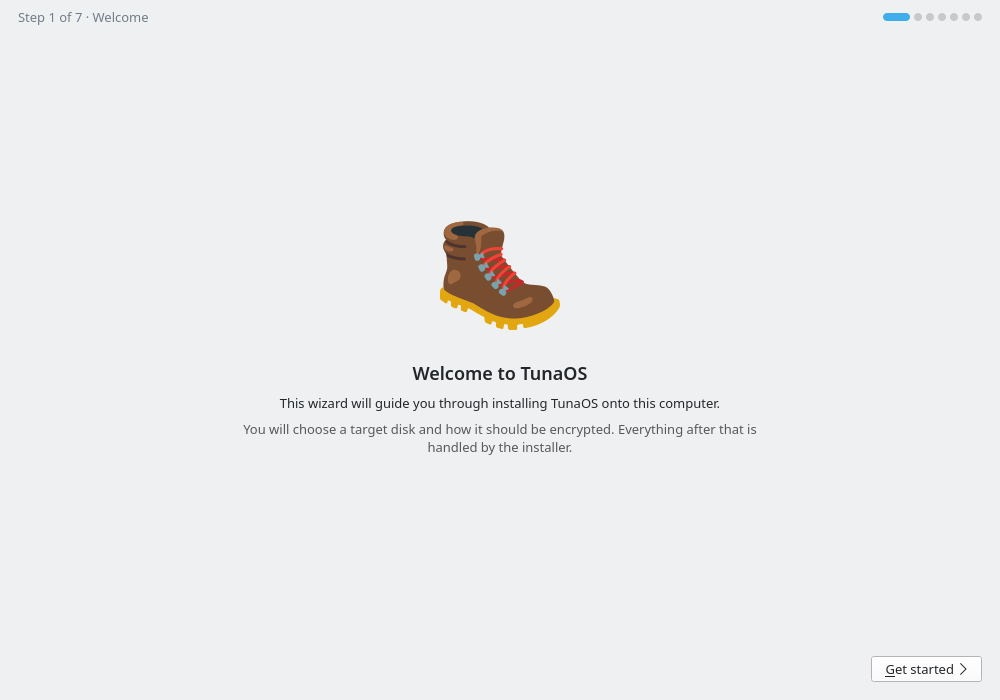
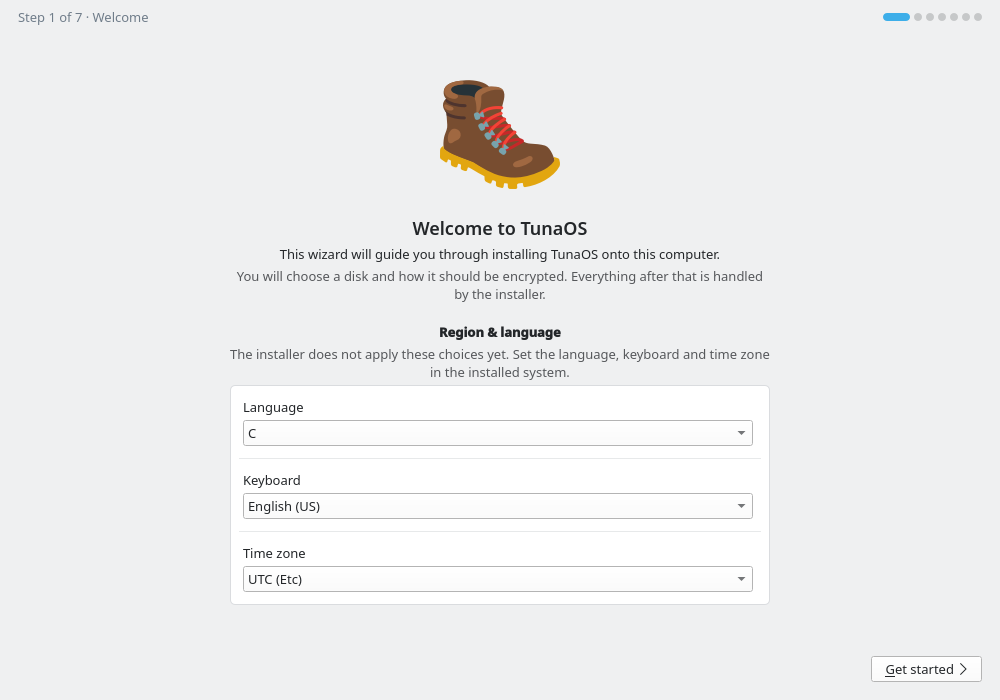
docs(kde): features, parity cells, agent notes and screenshots for the new pages
Two new frames: the question that Cancel asks and the cancelled page.

Part of #299, #303

Claude-Session: https://claude.ai/code/session_01F5v5GG4NYnpzMrfPCo3vWN

diff --git a/docs/PARITY.md b/docs/PARITY.md
@@ -68,7 +68,7 @@ claimed a render that nobody had wired up.
 | `done_subtitle` | header subtitle (+ elapsed time) | label | body | label | label |
 | `done_restart` | Reboot Now button | Restart button | suggested button | button | suggested button beside Close |
 | `done_failed_title` | page header | heading | title2 | heading | headline |
-| `done_cancelled_title` | page header, after a confirmed Cancel or fisherman exit code 130 | no (failure page, #299) | no (failure page, #299) | no (failure page, #299) | no (failure page, #299) |
+| `done_cancelled_title` | page header, after a confirmed Cancel or fisherman exit code 130 | heading | no (failure page, #299) | no (failure page, #299) | no (failure page, #299) |
 | `validate_*` | error line under the hostname (disk and confirm pages) and the username | inline message on the encryption step (passphrase) and the confirm step (hostname) | hostname row description; encryption row description | line under the hostname (confirm) and under the passphrase | line under the hostname, the username and the encryption choice |
 | `store_label` | done page link to `store_url` (+ QR from `assets.store_qr`, US locale) | done page link | done page link | done page link | done page link |
 | `logo` | product icon (GNOME file adapter tracked separately) | theme/file on welcome and successful done, after the asset; else `system-software-install` / `checkmark` | theme/file on welcome and successful done, after the asset; else `computer-symbolic` in an accent disc / the check | theme/file on welcome and successful done | theme/file/resource on welcome and successful done |
@@ -126,21 +126,21 @@ not use `default_image` yet (#289).
 
 | Feature | GNOME | KDE | COSMIC | Niri | XFCE |
 |---|---|---|---|---|---|
-| Image catalog choice (fisherman `images.json`) | yes (tree, search) | yes (disk step, search) | yes (and a custom URL row) | yes (flat list) | yes (flat list) |
-| Image selected at start, off live media | catalog `default_image`, then branding `default_image` if the catalog has it; else you must pick | none: you must pick | first row of the catalog (#289) | first name in the alphabet (#289) | first name in the alphabet (#289) |
-| Catalog fields that reach the recipe | all | image, bootloader, composefs, hostname; not filesystem (#287) | image and Flatpaks only (#286) | image, filesystem, bootloader, composefs, hostname | image, filesystem, bootloader, composefs |
+| Image catalog choice (fisherman `images.json`) | yes (tree, search) | yes (disk step, breadcrumb rows, search) | yes (and a custom URL row) | yes (flat list) | yes (flat list) |
+| Image selected at start, off live media | catalog `default_image`, then branding `default_image` if the catalog has it; else you must pick | branding `default_image`, then the catalog's; else you must pick | first row of the catalog (#289) | first name in the alphabet (#289) | first name in the alphabet (#289) |
+| Catalog fields that reach the recipe | all | all of the contract (shared/catalog) | image and Flatpaks only (#286) | image, filesystem, bootloader, composefs, hostname | image, filesystem, bootloader, composefs |
 | Live-ISO install without download (live media from `fisherman probe --json`) | yes | yes | yes | yes | yes |
 | Offline image stores (found by fisherman on the host) | yes | yes | yes | yes | yes |
 | Recipe on fisherman's stdin, no recipe file | yes | yes | yes | yes | yes |
-| fisherman staged from the Flatpak, with a SHA256 check | yes | no (#290) | no (#290) | no (#290) | no (#290) |
-| Fields checked by `fisherman validate --json --partial` | hostname, username | hostname, username, passphrase, filesystem | hostname, passphrase, username | hostname, username, passphrase, filesystem | hostname, username, passphrase |
+| fisherman staged from the Flatpak, with a SHA256 check | yes | yes (probe, validate and install) | no (#290) | no (#290) | no (#290) |
+| Fields checked by `fisherman validate --json --partial` | hostname, username | hostname, username, passphrase, filesystem with composefs | hostname, passphrase, username | hostname, username, passphrase, filesystem | hostname, username, passphrase |
 | Disk choice with erase warning | yes | yes | yes | yes | yes |
 | Disk list from `fisherman probe --json` (`shared/probe/`) | yes | yes | yes | yes | yes |
 | Disk row: model (path when unknown), path, size label, bus | yes | yes | yes | yes | yes |
 | Disk probe failure shown on the disk page | yes | yes | yes | yes | yes |
 | RAM / CPU / UEFI check (fisherman's `system.unmet`) | blocks (gate window) | holds Next; override for RAM and CPU | blocks (requirements page) | blocks (gate dialog) | blocks (gate window) |
-| Connectivity check | blocks (connection-check step); the Wi-Fi page is not in the bundled recipe | blocks on welcome | blocks (network page) | status line, does not block (#301) | blocks on confirm |
-| Filesystem choice | yes (list from the image) | no (always xfs, #287) | xfs or btrfs | yes (Advanced) | yes (Advanced) |
+| Connectivity check | blocks (connection-check step); the Wi-Fi page is not in the bundled recipe | blocks on welcome and confirm; image registry first; Network settings action | blocks (network page) | status line, does not block (#301) | blocks on confirm |
+| Filesystem choice | yes (list from the image) | yes (the choices of the image) | xfs or btrfs | yes (Advanced) | yes (Advanced) |
 | Encryption: none / passphrase | yes | yes | yes | yes | yes |
 | Passphrase typed twice, Next held on a mismatch | yes | yes | yes | yes | yes |
 | Encryption: TPM / TPM + passphrase | yes | yes | yes | yes | yes |
@@ -149,13 +149,13 @@ not use `default_image` yet (#289).
 | User account, when the image needs one | yes | yes | yes | yes | yes |
 | Default when the catalog does not set `needs_user_creation` (#288) | no account | account | no account | account | account |
 | Account password | twice, reveal, strength | twice, reveal, strength | twice, reveal | twice, no reveal (#295) | once, no reveal (#295) |
-| Account groups | wheel and developer groups, operator override | wheel (#302) | wheel (#302) | wheel (#302) | wheel (#302) |
+| Account groups | wheel and developer groups, operator override | shared list, operator override | wheel (#302) | wheel (#302) | wheel (#302) |
 | Phone companion (QR) | yes (TLS on the LAN address only); shows when the image needs an account, and fills the account page | no | yes (plain HTTP, #293) | no | yes (plain HTTP, #293, #294) |
-| Keyboard / language / timezone (#292) | pages exist; not in the bundled recipe | shown on confirm, applied nowhere | applied to the live session | applied to the live session (#291) | keyboard only |
+| Keyboard / language / timezone (#292) | pages exist; not in the bundled recipe | pickers on welcome, marked as not applied (#292) | applied to the live session | applied to the live session (#291) | keyboard only |
 | Keyboard / language / timezone in the installed system | no | no | no | no | no |
-| Cancel a running install (#299) | Cancel button, window close and Ctrl+Q: each asks first; a cancelled page follows | Cancel button, does not ask | quit dialog | Cancel button, does not ask | window close, asks first |
+| Cancel a running install (#299) | Cancel button, window close and Ctrl+Q: each asks first; a cancelled page follows | Cancel button, asks first; cancelled page | quit dialog | Cancel button, does not ask | window close, asks first |
 | `--autoinstall` | yes (the recipe is validated first) | no | no | no | yes |
-| Translatable UI | gettext, one domain (`bootc-installer`); branding copy stays in one language (#311) | no (#300) | no (#300) | no (#300) | no (#300) |
+| Translatable UI | gettext, one domain (`bootc-installer`); branding copy stays in one language (#311) | strings marked (qsTr, tr); no catalog ships (#300) | no (#300) | no (#300) | no (#300) |
 | Progress bar from fisherman's protocol | yes | yes | yes | yes | yes |
 | Restart from the done page | yes | yes | yes | yes | yes |
 | Show log after failure | yes (recovery key redacted) | log path | log in page | log in page | log tail |

diff --git a/frontends/kde/AGENTS.md b/frontends/kde/AGENTS.md
@@ -53,14 +53,41 @@ KDE KISS's `SetupModule`, so the shape is upstream's — follow it when adding a
 step rather than inventing a new one.
 
 Steps: welcome → disk → encryption → account → confirm → progress → done.
-The disk step offers the image catalog (fisherman's `images.json`, resolved
-like the GNOME/XFCE frontends resolve it) when a manifest is installed and
-the host is not live media. The account step writes the recipe's `user`
-block (groups `["wheel"]`) and is required unless the selected image creates
-its own first user (`needs_user_creation`), in which case the wizard skips
-the step and the recipe omits the block. The welcome step also carries the
-hardware gates, the region & language pickers and the connectivity check;
-see DESIGN.md's GNOME parity notes for the mapping.
+The disk step shows the image catalog when a manifest is there and the host
+is not live media. `../../shared/catalog/README.md` is the contract for the
+catalog: the search path, the fields that go into the recipe, the image
+selected at the start and the row labels. `src/imagecatalog.{h,cpp}` reads
+it, and `test_backend` holds it to `shared/catalog/fixtures`. A leaf also
+gives the filesystem choices: the disk step shows a picker when there is
+more than one. The account step writes the recipe's `user` block. Its groups
+are `account-groups.json`, a byte-identical copy of
+`../../shared/account/groups.json`, or `user.groups` of
+`/etc/bootc-installer/recipe.json`. The account is necessary unless the
+image creates its own first user (`needs_user_creation: false`). The wizard
+then skips the step and the recipe has no block. The welcome step also has
+the hardware gates, the region and language pickers and the connectivity
+check. Nothing applies the pickers yet (#292): the page says so, and the
+confirm step does not list them. See the GNOME parity notes in DESIGN.md.
+
+## How fisherman runs
+
+`src/fisherman.{h,cpp}` is the one resolver. No other file names the binary.
+A native run uses `/usr/local/bin/fisherman`: `pkexec` for the install, and
+`sudo -n` only on live media. In a Flatpak, the resolver copies
+`/app/bin/fisherman` to `$XDG_CACHE_HOME/bootc-installer/fisherman`. The
+host then computes the SHA256 of the copy. Probe, validate and install use
+the copy only when the two hashes are equal. Do not use `HOME/.cache`.
+
+The progress step has a Cancel button. It asks first. A confirmed cancel
+sends SIGTERM to the process group of the wrapper, then SIGKILL after five
+seconds. Exit code 130, or an unsuccessful end after a cancel, shows the
+cancelled page (`done_cancelled_title`), not the failure page.
+
+## Strings
+
+Put each string that a person reads in `qsTr()` (QML) or `tr()` (C++).
+`test_backend` (`qmlStringsGoThroughQsTr`) fails on a bare literal in a
+text, label or title property. No translation catalog ships yet.
 
 ### QML gotchas already paid for
 
@@ -111,8 +138,8 @@ confirmations (and requiring an account) are rules of this frontend. Do not add 
 ## Disks, TPM and minimum requirements
 
 These come from `fisherman probe --json`, not from this frontend. `src/probe.cpp`
-runs `/usr/local/bin/fisherman probe --json` without privileges (prefixed with
-`flatpak-spawn --host` in a Flatpak). `InstallerController` reads TPM and the
+runs `fisherman probe --json` without privileges, through the resolver in
+`src/fisherman.h`. `InstallerController` reads TPM and the
 requirements from it at startup. `DiskModel` runs the probe again each time the
 disk step opens. Show the eligible disks in fisherman's order, with
 `size_label` exactly as given. Do not add a disk filter or a size formatter. If

diff --git a/frontends/kde/DESIGN.md b/frontends/kde/DESIGN.md
@@ -67,29 +67,30 @@ the process exit status or actionable backend output.
 The wizard keeps its seven modules; the GNOME steps that have no module here
 are folded into the existing ones rather than added as new steps:
 
-- The **image catalog** (fisherman's `images.json`, resolved like the GNOME
-  and XFCE frontends resolve it) lives on the **disk** step, and the account
-  step is skipped when the selected leaf sets `needs_user_creation: false`
-  (`src/imagecatalog.{h,cpp}`). A leaf without the flag defaults to `true`:
-  an undescribed image installs with an account step rather than with nobody
-  to sign in as. Remote (`http`) per-leaf flatpak lists are deliberately not
-  fetched — leaving `flatpaks` empty keeps fisherman's fallback, the same
-  default a leaf without flatpaks gets everywhere.
+- The **image catalog** is on the **disk** step. The contract is
+  `shared/catalog/README.md`, and `src/imagecatalog.{h,cpp}` reads it. The
+  wizard skips the account step when the selected leaf sets
+  `needs_user_creation: false`. A leaf without the flag gets `true`. The
+  frontend does not download a Flatpak list: for a URL, the recipe has no
+  `flatpaks` key and fisherman applies its default. The leaf also gives the
+  filesystem and its choices, and the NVIDIA image on a machine with an
+  NVIDIA GPU.
 - The **hardware gates** live on the **welcome** step: unmet RAM/CPU hold
   Next until an explicit override is ticked (the cpu/ram windows), while a
   non-UEFI boot has no continue path, only power off (the unsupported
-  window). The **power off**, **copy install log** and **cancel install**
-  actions mirror `dialog_poweroff.py`, `dialog_output.py` and the exit
-  handler's `view_progress.terminate()`; quitting mid-install asks first
-  and kills the wrapper, which is the cancel contract (fisherman exits when
-  its parent dies).
-- **Language, keyboard and timezone** live on the **welcome** step and are
-  shown back on the **confirm** screen, where GNOME shows its finals. They
-  are wizard state, never recipe state: fisherman's Recipe struct has no
-  such fields, and `tests/unit/test_shared_recipe_schema.py` pins this
-  frontend's recipe to exactly those fields. The **connectivity check**
-  blocks Next only when the install needs the network (not live media, image
-  not already in the host's offline stores).
+  window). The **power off** and **copy install log** actions mirror
+  `dialog_poweroff.py` and `dialog_output.py`. **Cancel** on the progress
+  step and a window close during an install each ask first. A confirmed
+  cancel signals the process group of the wrapper. fisherman stops when its
+  parent stops. The done step then shows the cancelled page.
+- **Language, keyboard and timezone** are on the **welcome** step. They
+  are wizard state, not recipe state: the recipe has no field for them yet
+  (#292). Nothing applies them. The welcome step says so, and the confirm
+  step does not list them. The **connectivity check** holds Next on the
+  welcome step and Install on the confirm step, only when the install needs
+  the network. It tries the registry of the selected image first. The
+  message has a "Network settings" action that opens the Plasma tool on the
+  host.
 - The **tour** is the selected leaf's `carousel` slides on the **done**
   screen. Slide titles and descriptions travel; the artwork does not — the
   manifest names GNOME GResource paths (`resource:///...`), which nothing in

diff --git a/frontends/kde/docs/gui-walkthrough.md b/frontends/kde/docs/gui-walkthrough.md
@@ -21,11 +21,13 @@ Kirigami Addons, `org.kde.desktop` Qt Quick Controls style). See
 | ![Welcome](screenshots/01-welcome.png) | **Welcome** — what the wizard is about to do. |
 | ![Target disk](screenshots/02-disk.png) | **Target disk** — the disks `fisherman probe --json` offers, one FormCard radio per disk: the model (the path when unknown), then the path, fisherman's size label and the bus. Re-probed every time the step becomes current, so hotplugged media appear. |
 | ![Disk encryption](screenshots/03-encryption.png) | **Disk encryption** — `none`, `luks-passphrase`, and (only when fisherman reports a usable TPM 2.0) `tpm2-luks` and `tpm2-luks-passphrase`. The passphrase fields appear only for the options that take one. |
-| ![User account](screenshots/04-account.png) | **User account** — username, optional full name and the password typed twice: the recipe's `user` block, in group `wheel`. Next is held until both are filled, the passwords match and `fisherman validate --json --partial -` has no problem with the username (shown under the field in the `validate_username_*` copy). The capture asserts Next is held before the second typing and released after it. |
+| ![User account](screenshots/04-account.png) | **User account** — username, optional full name and the password typed twice: the recipe's `user` block, with the groups of `shared/account/groups.json`. Next is held until both are filled, the passwords match and `fisherman validate --json --partial -` has no problem with the username (shown under the field in the `validate_username_*` copy). The capture asserts Next is held before the second typing and released after it. |
 | ![Confirm](screenshots/05-confirm.png) | **Confirm** — the recipe as it will be written (including the username, never the password), and the only button in the app that starts an install. |
 | ![Installing](screenshots/06-progress.png) | **Installing** — live `fisherman` output. No Back, no Next: the wizard advances itself when the process exits. |
 | ![Finished](screenshots/07-done.png) | **Finished** — success or failure, with the exit code, under the branding artwork. |
 | ![Recovery key](screenshots/08-recovery.png) | **Recovery key** — after a TPM enrolment: the key in a monospace, selectable field with a copy button, and Restart held until "I have saved my recovery key" is ticked. |
+| ![Cancel question](screenshots/09-cancel-confirm.png) | **Cancel** — the progress step asks before it stops an install. The capture clicks Cancel and makes sure that the question opens. |
+| ![Cancelled](screenshots/10-cancelled.png) | **Cancelled** — the done step after a confirmed cancel or fisherman exit code 130. The heading is the copy key `done_cancelled_title`. |
 
 Every step's header shows "Step N of 7 · name" and one dot per step.
 

diff --git a/frontends/kde/README.md b/frontends/kde/README.md
@@ -30,10 +30,10 @@ hardcoded pixel metrics, and no more forced Fusion style.
 1. **Welcome** — brief intro
 2. **Target Disk** — `fisherman probe --json` lists the disks fisherman offers (`../../shared/probe/README.md`); user picks one
 3. **Disk Encryption** — none / passphrase / TPM / TPM + passphrase
-4. **User Account** — username, optional full name, password typed twice; writes the recipe's `user` block (groups `wheel`). fisherman checks the username while it is typed
+4. **User Account** — username, optional full name, password typed twice; writes the recipe's `user` block with the groups of `shared/account/groups.json`. fisherman checks the username while it is typed
 5. **Confirm** — summary of choices (disk, filesystem, encryption, hostname, username, image)
 6. **Installing** — pipes the recipe JSON to `fisherman -` on stdin, streams output
-7. **Finished** — success/failure with close button
+7. **Finished** — success, failure or cancelled, with a close button
 
 ## Build
 
